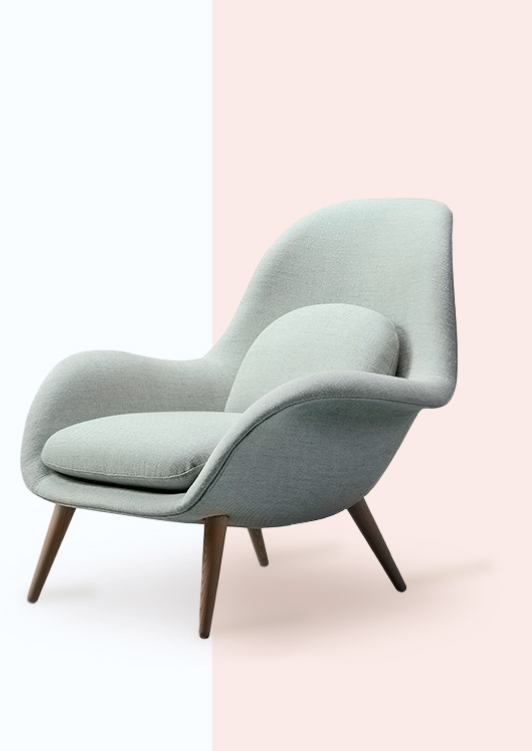
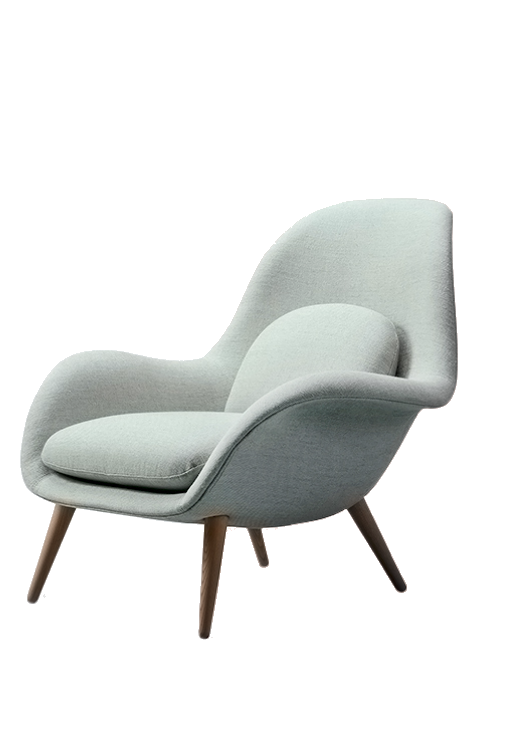
Конец субботы

diff --git a/source/index.html b/source/index.html
@@ -35,9 +35,9 @@
       </div>
     </header>
     <main class="page-main">
-      <div class="page-wrapper">
-        <h1 class="page-main__main-header">Дизайнерская<br>мебель</h1>
-        <section class="prima-fitch">
+      <section class="prima-fitch">
+        <div class="page-wrapper">
+          <h1 class="page-main__main-header">Дизайнерская<br>мебель</h1>
           <div class="prima-fitch__list">
             <div class="prima-fitch__item">
               <img class="prima-fitch__image" src="img/armchair_antikva.png"></img>
@@ -58,14 +58,10 @@
               <a href="#" class="prima-fitch__button">Купить</a>
             </div>
           </div>
-          <ul class="prima-fitch__pagination pagination">
-            <li class="pagination__item pagination__item--active"><a>01</a></li>
-            <li class="pagination__item"><a>02</a></li>
-            <li class="pagination__item"><a>03</a></li>
-            <li class="pagination__item"><a>04</a></li>
-          </ul>
-        </section>
-        <section class="new-products">
+        </div>
+      </section>
+      <section class="new-products">
+        <div class="page-wrapper">
           <ul class="new-products__list">
             <li class="new-products__header"><h2>Новинки</h2></li>
             <li class="new-products__element product">
@@ -89,8 +85,10 @@
               <div class="product__cost">$120</div>
             </li>
           </ul>
-        </section>
-        <section class="reviews-sec">
+        </div>
+      </section>
+      <section class="reviews-sec">
+        <div class="page-wrapper">
           <h2 class="reviews-sec__header visually-hidden">Отзывы</h2>
           <div class="reviews">
             <a href="" class="reviews__left-narrow"><img src="img/arrow-left.svg" alt="Предидущий"></a>
@@ -107,8 +105,10 @@
               </li>
             </ul>
           </div>
-        </section>
-        <section class="old-products">
+        </div>
+      </section>
+      <section class="old-products">
+        <div class="page-wrapper">
           <h2 class="old-products__header">Последний шанс</h2>
           <div class="old-products__tabs">
             <input type="radio" name="tab-btn" id="tab-btn-1" value="" checked>
@@ -119,106 +119,112 @@
             <label for="tab-btn-3">Кресла</label>
             <div id="content-1">
               <ul class="old-products__list">
-                <li class="new-products__element">
-                  <div class="product__image"><img src="img/old_chear1.jpg" alt="Первый стул"></div>
-                  <div class="product__caption">Стул "Карамель"</div>
-                  <div class="product__cost">$120</div>
+                <li class="old-products__element">
+                  <h3 class="product__caption">Стул "Карамель"</h3>
+                  <p class="product__cost">$120<span>$150</span></p>
+                  <img class="product__image" src="img/old_chear1.jpg" alt="Первый стул">
                 </li>
-                <li class="new-products__element">
-                  <div class="product__image"><img src="img/old_chear2.jpg" alt="Второй стул"></div>
-                  <div class="product__caption">Стул "Крем брюле"</div>
-                  <div class="product__cost">$120</div>
+                <li class="old-products__element">
+                  <h3 class="product__caption">Стул "Крем брюле"</h3>
+                  <p class="product__real-cost">$120<span>$150</span></p>
+                  <img class="product__image" src="img/old_chear2.jpg" alt="Второй стул">
                 </li>
-                <li class="new-products__element">
-                  <div class="product__image"><img src="img/old_chear3.jpg" alt="третий стул"></div>
-                  <div class="product__caption">Стул "Крем брюле"</div>
-                  <div class="product__cost">$120</div>
+                <li class="old-products__element">
+                  <h3 class="product__caption">Стул "Крем брюле"</h3>
+                  <p class="product__cost">$120<span>$150</span></p>
+                  <img class="product__image" src="img/old_chear3.jpg" alt="третий стул">
                 </li>
-                <li class="new-products__element">
-                  <div class="product__image"><img src="img/old_chear4.jpg" alt="Четвертый стул"></div>
-                  <div class="product__caption">Стул "Крем брюле"</div>
-                  <div class="product__cost">$120</div>
+                <li class="old-products__element">
+                  <h3 class="product__caption">Стул "Крем брюле"</h3>
+                  <p class="product__cost">$120<span>$150</span></p>
+                  <img class="product__image" src="img/old_chear4.jpg" alt="Четвертый стул">
                 </li>
-                <li class="new-products__element">
-                  <div class="product__image"><img src="img/old_chear5.jpg" alt="Пятый стул"></div>
-                  <div class="product__caption">Стул "Крем брюле"</div>
-                  <div class="product__cost">$120</div>
+                <li class="old-products__element">
+                  <h3 class="product__caption">Стул "Крем брюле"</h3>
+                  <p class="product__cost">$120<span>$150</span></p>
+                  <img class="product__image" src="img/old_chear5.jpg" alt="Пятый стул">
                 </li>
               </ul>
             </div>
             <div id="content-2">
               <ul class="old-products__list">
-                <li class="new-products__element">
-                  <div class="product__image"></div>
-                  <div class="product__caption">Стул "Карамель"</div>
-                  <div class="product__cost">$220</div>
+                <li class="old-products__element">
+                  <h3 class="product__caption">Стул "Карамель"</h3>
+                  <p class="product__cost">$220<span>$330</span></p>
+                  <img class="product__image">
                 </li>
-                <li class="new-products__element">
-                  <div class="product__image"></div>
-                  <div class="product__caption">Стул "Крем брюле"</div>
-                  <div class="product__cost">$220</div>
+                <li class="old-products__element">
+                  <h3 class="product__caption">Стул "Крем брюле"</h3>
+                  <p class="product__cost">$220<span>$330</span></p>
+                  <img class="product__image">
                 </li>
-                <li class="new-products__element">
-                  <div class="product__image"></div>
-                  <div class="product__caption">Стул "Крем брюле"</div>
-                  <div class="product__cost">$220</div>
+                <li class="old-products__element">
+                  <h3 class="product__caption">Стул "Крем брюле"</h3>
+                  <p class="product__cost">$220<span>$330</span></p>
+                  <img class="product__image">
                 </li>
-                <li class="new-products__element">
-                  <div class="product__image"></div>
-                  <div class="product__caption">Стул "Крем брюле"</div>
-                  <div class="product__cost">$220</div>
+                <li class="old-products__element">
+                  <h3 class="product__caption">Стул "Крем брюле"</h3>
+                  <p class="product__cost">$220<span>$330</span></p>
+                  <img class="product__image">
                 </li>
-                <li class="new-products__element">
-                  <div class="product__image"></div>
-                  <div class="product__caption">Стул "Крем брюле"</div>
-                  <div class="product__cost">$220</div>
+                <li class="old-products__element">
+                  <h3 class="product__caption">Стул "Крем брюле"</h3>
+                  <p class="product__cost">$220<span>$330</span></p>
+                  <img class="product__image">
                 </li>
               </ul>
             </div>
             <div id="content-3">
               <ul class="old-products__list">
-                <li class="new-products__element">
-                  <div class="product__image"></div>
-                  <div class="product__caption">Стул "Карамель"</div>
-                  <div class="product__cost">$320</div>
+                <li class="old-products__element">
+                  <h3 class="product__caption">Стул "Карамель"</h3>
+                  <p class="product__cost">$320<span>$430</span></p>
+                  <img class="product__image">
                 </li>
-                <li class="new-products__element">
-                  <div class="product__image"></div>
-                  <div class="product__caption">Стул "Крем брюле"</div>
-                  <div class="product__cost">$320</div>
+                <li class="old-products__element">
+                  <h3 class="product__caption">Стул "Крем брюле"</h3>
+                  <p class="product__cost">$320<span>$430</span></p>
+                  <img class="product__image">
                 </li>
-                <li class="new-products__element">
-                  <div class="product__image"></div>
-                  <div class="product__caption">Стул "Крем брюле"</div>
-                  <div class="product__cost">$320</div>
+                <li class="old-products__element">
+                  <h3 class="product__caption">Стул "Крем брюле"</h3>
+                  <p class="product__cost">$320<span>$430</span></p>
+                  <img class="product__image">
                 </li>
-                <li class="new-products__element">
-                  <div class="product__image"></div>
-                  <div class="product__caption">Стул "Крем брюле"</div>
-                  <div class="product__cost">$320</div>
+                <li class="old-products__element">
+                  <h3 class="product__caption">Стул "Крем брюле"</h3>
+                  <p class="product__cost">$320<span>$430</span></p>
+                  <img class="product__image">
                 </li>
-                <li class="new-products__element">
-                  <div class="product__image"></div>
-                  <div class="product__caption">Стул "Крем брюле"</div>
-                  <div class="product__cost">$320</div>
+                <li class="old-products__element">
+                  <h3 class="product__caption">Стул "Крем брюле"</h3>
+                  <p class="product__cost">$320<span>$430</span></p>
+                  <img class="product__image">
                 </li>
               </ul>
             </div>
           </div>
-        </section>
-      </div>
+        </div>
+      </section>
     </main>
     <footer>
-      <img src="img/logo.svg" alt="Логотип" class="logo">
-      <p><img src="img/icons-phone.png" alt="Телефон">+7(495) 205-28-14</p>
-      <a href="mailto:callium@gmail.com"><img src="img/icons-new-post.png" alt="Письмо">callium@gmail.com</a>
-      <ul>
-        <li><a href="blank.html">Доставка</a></li>
-        <li><a href="blank.html">Оплата</a></li>
-        <li><a href="blank.html">Контакты</a></li>
-        <li><a href="blank.html">Гарантии</a></li>
-      </ul>
-      <p>© 2018 «Callium» — Сайт по продаже дизайнерской мебели. Все права защищены.</p>
+      <div class="page-wrapper">
+        <div class="footer__elements">
+          <img src="img/logo.svg" alt="Логотип" class="logo">
+          <ul class="footer__menu">
+            <li><a href="blank.html">Доставка</a></li>
+            <li><a href="blank.html">Оплата</a></li>
+            <li><a href="blank.html">Контакты</a></li>
+            <li><a href="blank.html">Гарантии</a></li>
+          </ul>
+          <div class="footer__contacts">
+            <a href="tel:+74952052814"><img src="img/icons-phone.png" alt="Телефон">+7(495) 205-28-14</a>
+            <a href="mailto:callium@gmail.com"><img src="img/icons-new-post.png" alt="Письмо">callium@gmail.com</a>
+          </div>
+        </div>
+        <p class="footer__copyright">© 2018 «Callium» — Сайт по продаже дизайнерской мебели. Все права защищены.</p>
+      </div>
     </footer>
   </body>
 </html>

diff --git a/source/less/blocks/old-products.less b/source/less/blocks/old-products.less
@@ -3,6 +3,7 @@
   background-repeat: no-repeat;
   background-size: 815px 545px;
   background-position: left top;
+  margin-bottom: 166px;
 }
 .old-products__header {
   font-family: 'Playfair Display';
@@ -14,6 +15,7 @@
   color: #303032;
   text-transform: uppercase;
   position: relative;
+  padding-top: 73px;
   margin-bottom: 48px;
 }
 
@@ -37,7 +39,7 @@
 .old-products__tabs>div {
   /* скрыть контент по умолчанию */
   display: none;
-  padding: 10px 15px;
+  padding-top: 10px;
   font-size: 16px;
 }
 
@@ -78,6 +80,41 @@
 }
 
 .old-products__list {
+  list-style: none;
   display: flex;
   flex-direction: row;
+  gap: 30px;
+  margin-left: 0;
+  padding-left: 0;
+}
+
+.old-products__element {
+  width: 209px;
+  height: 355px;
+  background-color: #fff;
+  box-shadow: 0px 0px 25px 0px rgba(0, 0, 0, 0.05);
+}
+
+.old-products__element h3{
+  font-size: 16px;
+  font-family: "Open Sans"; 
+}
+
+.old-products__element p {
+  color: #303032;
+  font-size: 28px;
+  font-family: "Open Sans";
+  font-weight: 600; 
+  padding-left: 26px;
+}
+
+.old-products__element p span{
+  font-size: 16px;
+  text-decoration-line: line-through;
+  opacity: 0.5;
+  padding-left: 11px;
+}
+
+.old-products__element img{
+  float: right;
 }

diff --git a/source/less/blocks/footer.less b/source/less/blocks/footer.less
@@ -1,0 +1,61 @@
+.footer__elements{
+    display: grid;
+    grid-template-columns: 50% 50%;
+    border-bottom: solid 1px rgba(0,0,0,0.8);
+    padding-bottom: 30px;
+}
+
+.footer__elements img{
+    grid-column-start: 1;
+    grid-column-end: 2;
+    vertical-align: bottom;
+}
+
+.footer__menu {
+    grid-column-start: 2;
+    grid-column-end: 3;
+    display: flex;
+    flex-direction: row;
+    list-style: none;
+    padding-left: 0;
+    justify-content: space-between;
+}
+
+.footer__menu a{
+    text-transform: uppercase;
+    text-decoration: none;
+    color: #303032;
+    text-align: center;
+    font-size: 14px;
+    font-family: "Avenir Next";
+    font-weight: 600;
+    line-height: 0%;
+    letter-spacing: 0.7px; 
+}
+
+.footer__contacts {
+    display: flex;
+    flex-direction: row;
+    justify-content: start;
+    gap: 50px;
+}
+
+.footer__contacts a{
+    text-decoration: none;
+    color: #303032;
+    font-size: 16px;
+    font-family: Roboto;
+}
+
+.footer__contacts img{
+    margin-right: 7px;
+    vertical-align: bottom;
+}
+
+.footer__copyright{
+    color: #000;
+    text-align: right;
+    font-size: 10px;
+    font-family: "Avenir Next";
+    opacity: 0.2;
+}

diff --git a/source/less/blocks/prima-fitch.less b/source/less/blocks/prima-fitch.less
@@ -6,6 +6,10 @@
   grid-template-columns: auto 72px;
   height: 750px;
   margin-bottom: 140px;
+  background-image: url('../img/pink_rectangle.svg');
+  background-repeat: repeat-y;
+  background-size: 630px;
+  background-position: right -126px;
 }
 
 .prima-fitch__item {
@@ -60,6 +64,5 @@
 }
 .prima-fitch__image {
   position: absolute;
-  z-index: -1;
   right: 0;
 }

diff --git a/source/less/style.less b/source/less/style.less
@@ -17,3 +17,4 @@
 @import "blocks/review.less";
 @import "blocks/reviewer.less";
 @import "blocks/old-products.less";
+@import "blocks/footer.less";
